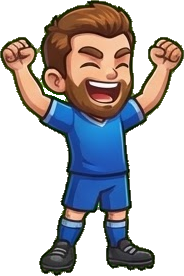
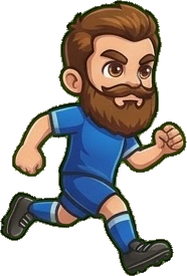
Efor yuzlu ziplama pozlari, Gemini gol kutlamasi (konfeti, havai fisek, serit)
Claude-Session: https://claude.ai/code/session_01MKBxJNLGR53ZhGKnJwbvgT

diff --git a/main.py b/main.py
@@ -518,6 +518,8 @@ class Sound:
         for k, f in enumerate((523, 659, 784, 1046)):
             fan += mul(bell([f, f * 2], 0.16 if k < 3 else 0.6, 3), [1] * n(0.16 if k < 3 else 0.6))
         s["golden"] = self._mk(fan, 0.5)
+        crack = [((rnd.random() * 2 - 1) * (1 - i / n(0.5)) ** 2 if rnd.random() < 0.08 else 0.0) for i in range(n(0.5))]
+        s["pop"] = self._mk(mix((thump(420, 90, 0.18, 0.9), 1), (crack, 0.9)), 0.5)
 
     def play(self, name, gap=0.05, vol=1.0):
         if not self.ok or self.muted or self.hidden or name not in self.snd:
@@ -664,7 +666,9 @@ class Assets:
         self.power_icon = {k: picon(a, b, 32) for k, (a, b) in pmap.items()}
         self.power_icon_small = {k: picon(a, b, 28) for k, (a, b) in pmap.items()}
         self.fx_art = {}
-        for n in ("fx_glove", "fx_bolt", "fx_quake", "fx_magnet", "fx_flash", "fx_dust", "fx_spark", "fx_stars"):
+        for n in ("fx_glove", "fx_bolt", "fx_quake", "fx_magnet", "fx_flash", "fx_dust", "fx_spark", "fx_stars",
+                  "fx_confetti", "fx_fw_gold", "fx_fw_red", "fx_fw_blue", "fx_str_red", "fx_str_gold",
+                  "fx_str_blue", "fx_str_white", "fx_starburst", "fx_star", "fx_ring"):
             if os.path.exists(res("assets", n + ".png")):
                 self.fx_art[n] = L(n + ".png")
         self.stat_icons = [self._fit(L(n), 30) for n in ("st_speed.png", "st_jump.png", "st_shot.png")]
@@ -1585,7 +1589,8 @@ class MatchScene(Scene, OnlineMixin):
         self.goal_line = None
         self.bolts = []
         self.quakes = []
-        self.pops = []   # [gorsel, x, y, boy, omur]
+        self.pops = []   # [gorsel, x, y, boy, omur(, maks)]
+        self.fw_queue = []
         self.last_count = None
         self.pstate = [{"og": None, "sq": 0.0, "st": 0.0, "fz": 0.0} for _ in range(2)]
         self.stad = app.stadium if 0 <= app.stadium < len(STADIUMS) else 0
@@ -1964,6 +1969,20 @@ class MatchScene(Scene, OnlineMixin):
                 else:
                     msg = "RAKİP ATTI"
                 self._say("GOOOL!", GOLD, 2.4)
+                # Gemini kutlama efektleri
+                gx2 = W - 70 if who == 0 else 70
+                self.pops.append(["fx_confetti", gx2, sim.GOAL_TOP + 40, 230, 1.1, 1.1])
+                self.pops.append(["fx_starburst", gx2, sim.GOAL_TOP + 80, 200, 0.5, 0.5])
+                self.pops.append(["fx_ring", gx2, sim.GOAL_TOP + 80, 160, 0.6, 0.6])
+                for k in range(7):
+                    self.fw_queue.append([0.15 + k * 0.28, random.uniform(160, W - 160), random.uniform(90, 250),
+                                          random.choice(["fx_fw_gold", "fx_fw_red", "fx_fw_blue"])])
+                for _ in range(26):
+                    self.parts.append(Particle(random.uniform(0, W), random.uniform(-80, 40), random.uniform(-40, 40),
+                                               random.uniform(40, 120), random.uniform(2.2, 3.2),
+                                               random.choice(["fx_str_red", "fx_str_gold", "fx_str_blue",
+                                                              "fx_str_white", "fx_star"]),
+                                               random.uniform(22, 34), 40, "img"))
                 self.floaters.append([msg, W // 2, 292, 2.2, P_COLORS[who]])
                 self.shake = 0.5
                 self.ripple = [1 if who == 0 else 0, by, 0.0]
@@ -2041,6 +2060,9 @@ class MatchScene(Scene, OnlineMixin):
                 p.vx *= (1 - 2.0 * dt)
                 p.vy = min(p.vy, 140)
                 p.vx += math.sin(p.rot * 0.05) * 30 * dt
+            elif p.kind == "img":
+                p.vx += math.sin(p.life * 3 + p.rot * 0.01) * 40 * dt
+                p.rot -= p.vr * dt * 0.75
             elif p.kind in ("smoke", "snow"):
                 p.vx *= (1 - 2.5 * dt)
                 p.vy *= (1 - 2.5 * dt) if p.kind == "snow" else 1
@@ -2065,6 +2087,12 @@ class MatchScene(Scene, OnlineMixin):
         for q in self.bolts + self.quakes:
             q[1] -= dt
         self.bolts = [q for q in self.bolts if q[1] > 0]
+        for q in self.fw_queue:
+            q[0] -= dt
+            if q[0] <= 0:
+                self.pops.append([q[3], q[1], q[2], random.uniform(150, 220), 0.9, 0.9])
+                self.app.sound.play("pop" if "pop" in self.app.sound.snd else "kick", 0.05, 0.5)
+        self.fw_queue = [q for q in self.fw_queue if q[0] > 0]
         for q in self.pops:
             q[4] -= dt
         self.pops = [q for q in self.pops if q[4] > 0]
@@ -2191,10 +2219,14 @@ class MatchScene(Scene, OnlineMixin):
                 gd.circle(s, (200, 130, 255), (b[0], b[1]), 36 + 4 * math.sin(self.t * 12), 3)
         self._draw_ball(s, b)
         self._draw_goal_front(s, snap)
-        for name_, px_, py_, sz, life in self.pops:
+        for q in self.pops:
+            name_, px_, py_, sz, life = q[:5]
             img = A.fx(name_, sz)
             if img is not None:
-                k_ = 1 + (0.6 - min(0.6, life)) * 0.8
+                if len(q) > 5:
+                    k_ = 0.35 + 0.85 * min(1.0, (1 - life / q[5]) * 2.2)
+                else:
+                    k_ = 1 + (0.6 - min(0.6, life)) * 0.8
                 im2 = tf.rotozoom(img, 0, k_) if name_ != "fx_dust" else img
                 im2.set_alpha(int(255 * min(1, life * 3)))
                 s.blit(im2, im2.get_rect(center=(px_, py_)))
@@ -2285,6 +2317,14 @@ class MatchScene(Scene, OnlineMixin):
     def _draw_particle(self, s, p):
         a = max(0.0, min(1.0, p.life / p.max))
         k = p.kind
+        if k == "img":
+            img = self.app.assets.fx(p.color, p.size)
+            if img is not None:
+                r_ = tf.rotate(img, p.rot % 360)
+                if a < 0.3:
+                    r_.set_alpha(int(255 * a / 0.3))
+                s.blit(r_, r_.get_rect(center=(p.x, p.y)))
+            return
         if k == "confetti":
             r = pygame.Rect(0, 0, p.size, int(p.size * 1.6 * abs(math.cos(math.radians(p.rot)))) + 1)
             r.center = (p.x, p.y)
